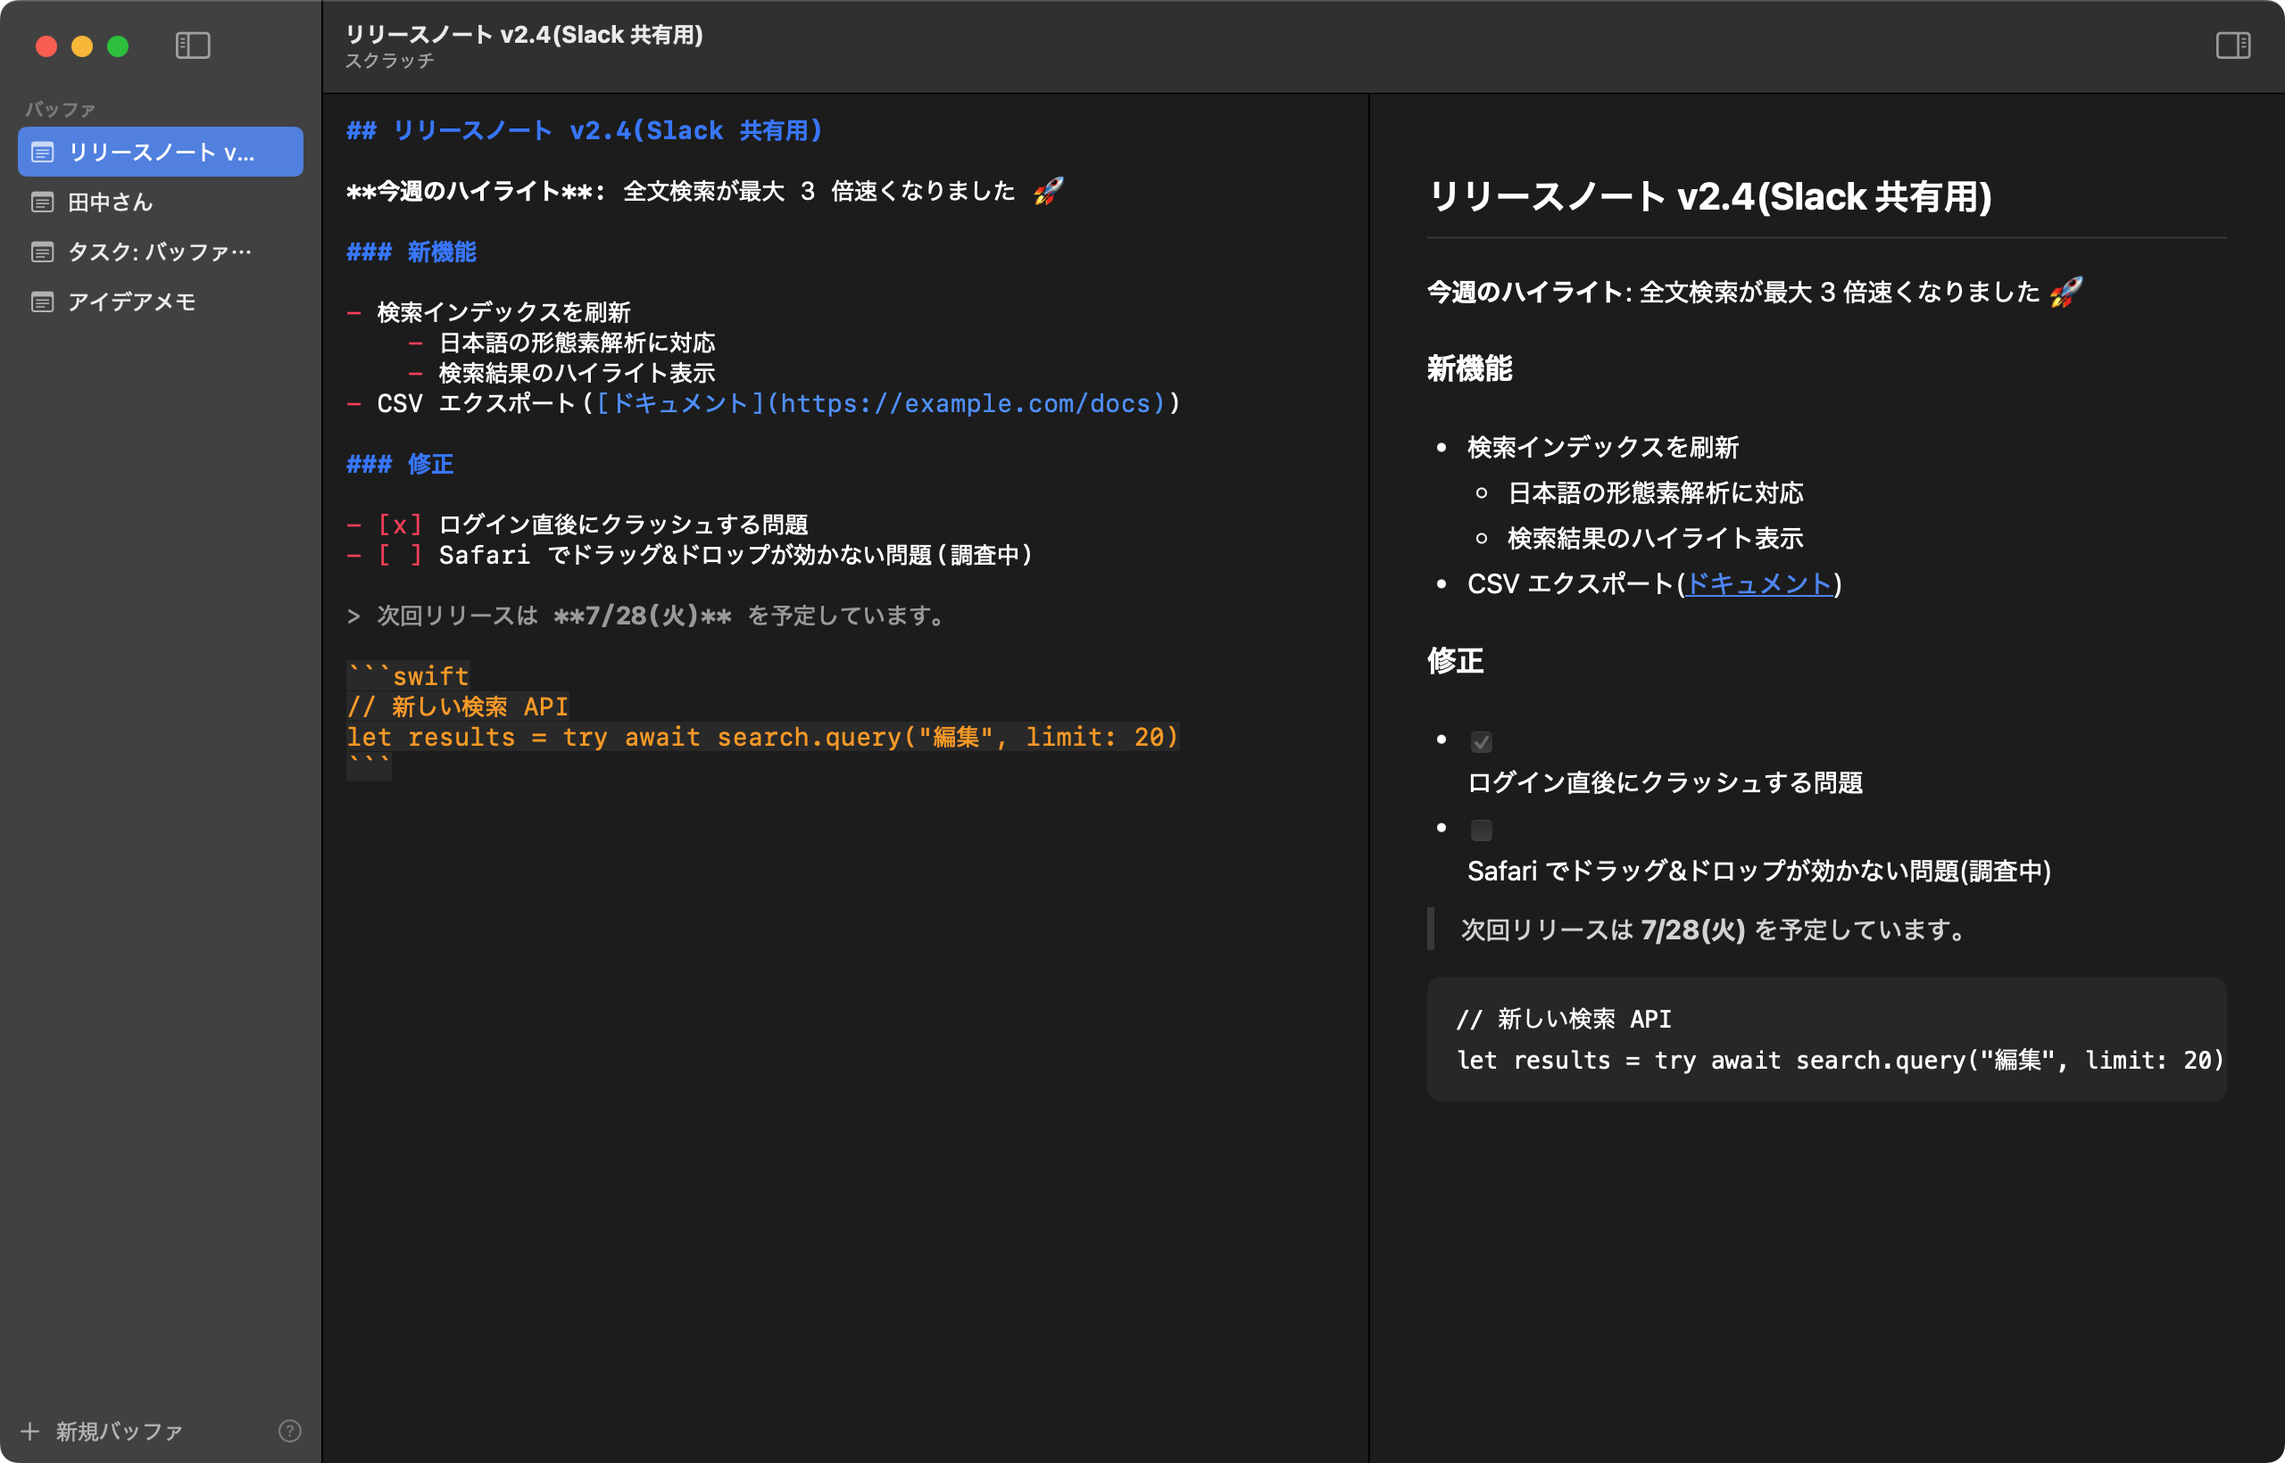
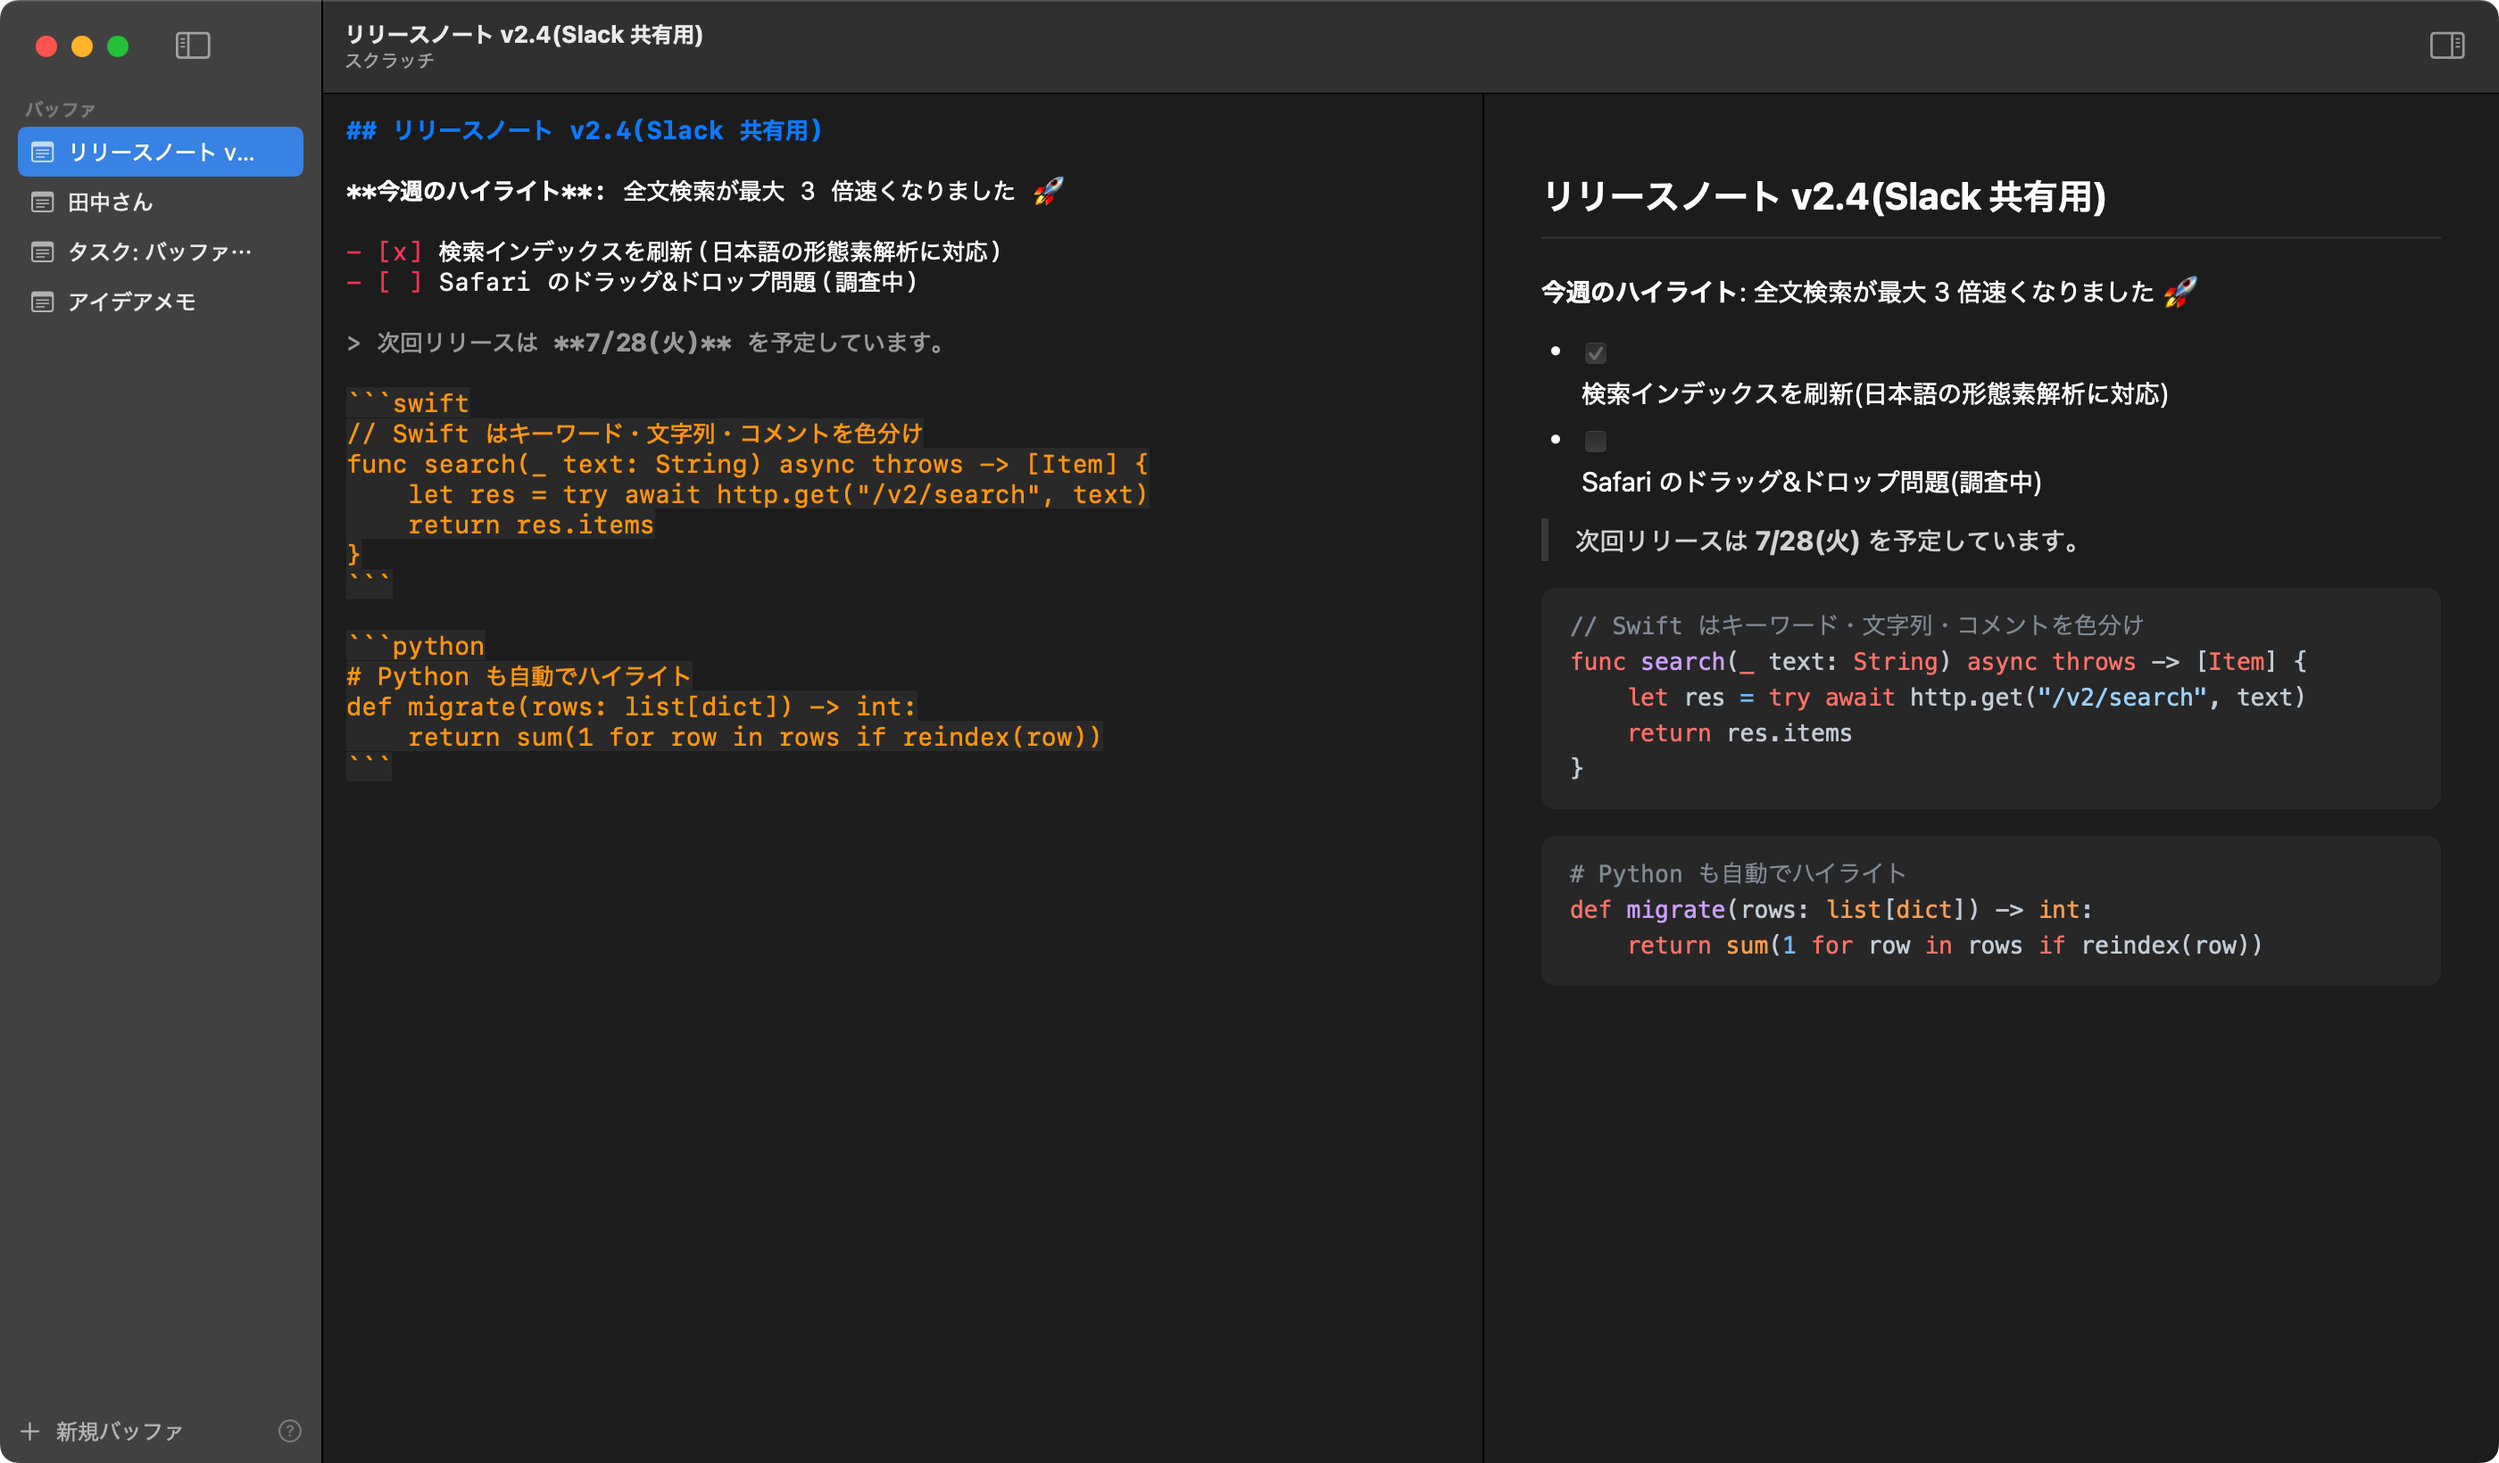
Update README screenshot to show syntax-highlighted preview
- Retake with Swift/Python fenced code blocks so per-language
  highlighting in the preview pane is visible
- CLAUDE.md: commit messages are written in English from now on

diff --git a/CLAUDE.md b/CLAUDE.md
@@ -81,7 +81,7 @@ NSTextView を取得して操作。エディタ→モデルは NSTextViewDelegat
 
 ## ユーザー(kohey)の好み・運用
 
-- UI 文言・コミットメッセージ・応答はすべて日本語
+- UI 文言・応答は日本語。**コミットメッセージは英語**で書く
 - 体験の細部(フォーカス位置、行間、改行挙動)へのフィードバックが多い。エディタの手触りを最優先
 - 変更したら Debug ビルドで再起動して即座に触れる状態にして報告する。常用版の更新は install.sh
 - ⌥ などの記号キーの名前は自明ではない(ヘルプに凡例を入れてある)

diff --git a/README.md b/README.md
@@ -4,7 +4,7 @@
 
 Claude Code へのプロンプト、Gmail での本文、Slack への貼り付けなど、**最終的に他のアプリに貼るテキスト**を書く場所として使う。クラウド同期なし、Mac 専用。
 
-![Editan のスクリーンショット。左にバッファ一覧、中央に Markdown シンタックスハイライト付きエディタ、右にプレビュー](docs/screenshot.png)
+![Editan のスクリーンショット。左にバッファ一覧、中央に Markdown シンタックスハイライト付きエディタ、右に言語別コードハイライト付きプレビュー](docs/screenshot.png)
 
 ## 特徴
 
